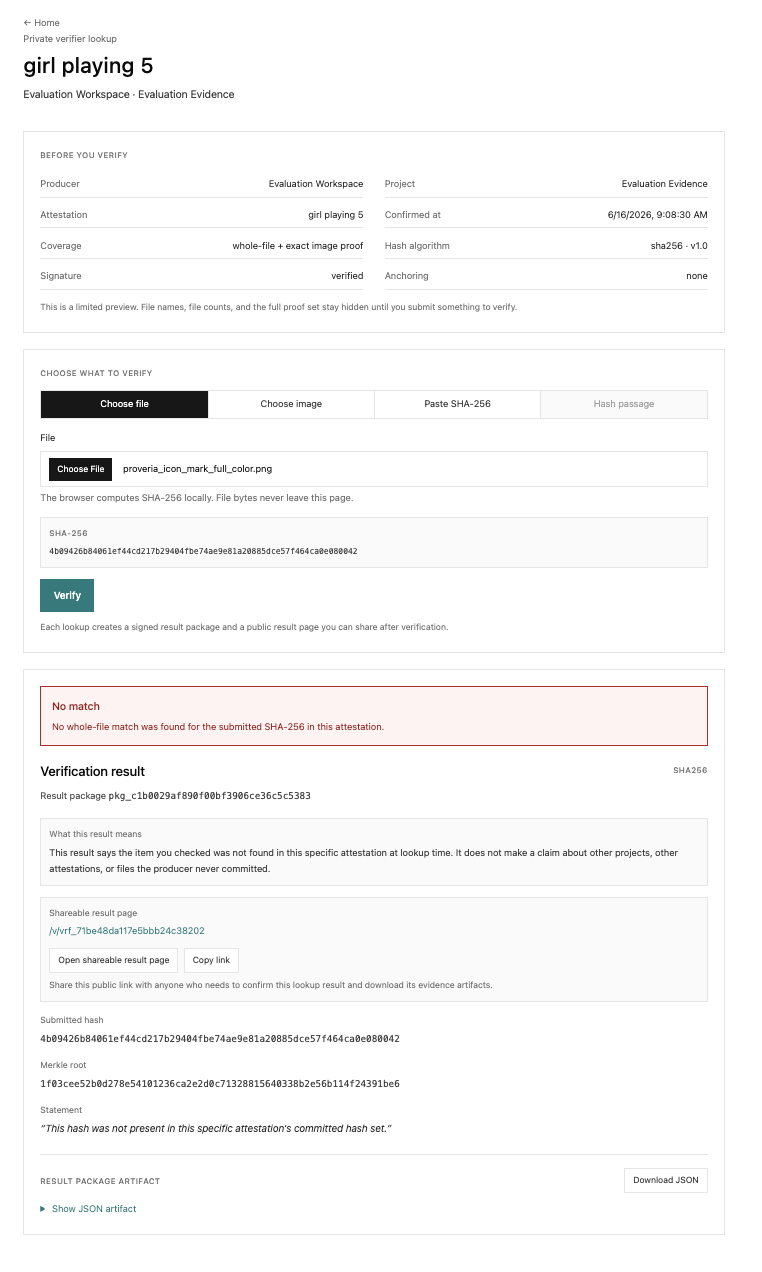
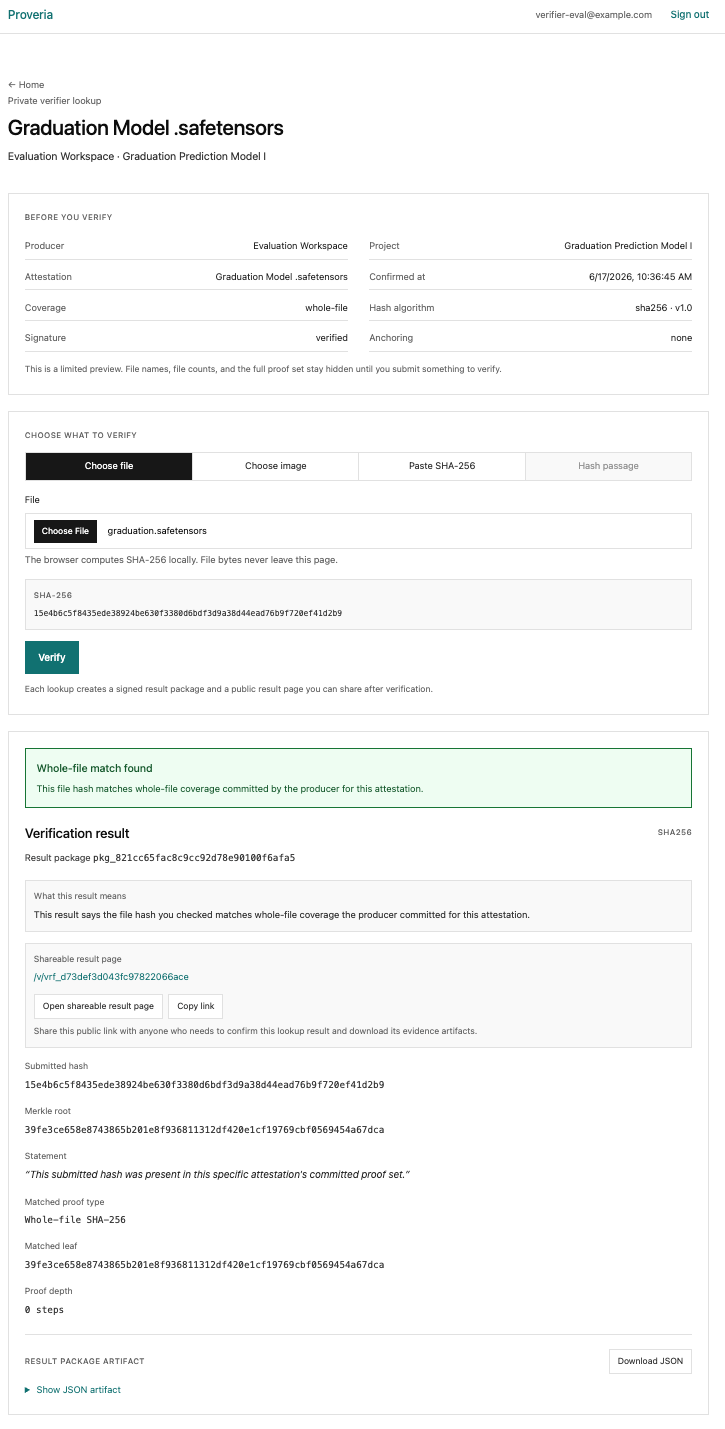
Update README screenshots

diff --git a/README.md b/README.md
@@ -6,6 +6,6 @@
 
 ## Product Screenshots
 
-![Private verifier lookup result](docs/architecture/assets/private-verifier-lookup-result.png)
-
 ![Attestation detail](docs/architecture/assets/attestation-detail.png)
+
+![Private verifier lookup result](docs/architecture/assets/private-verifier-lookup-result.png)